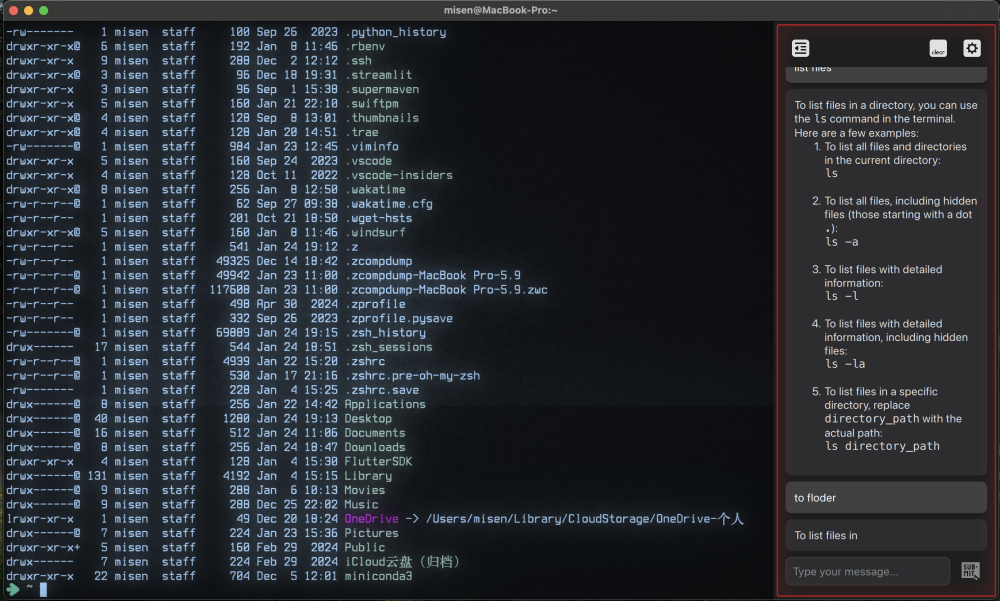
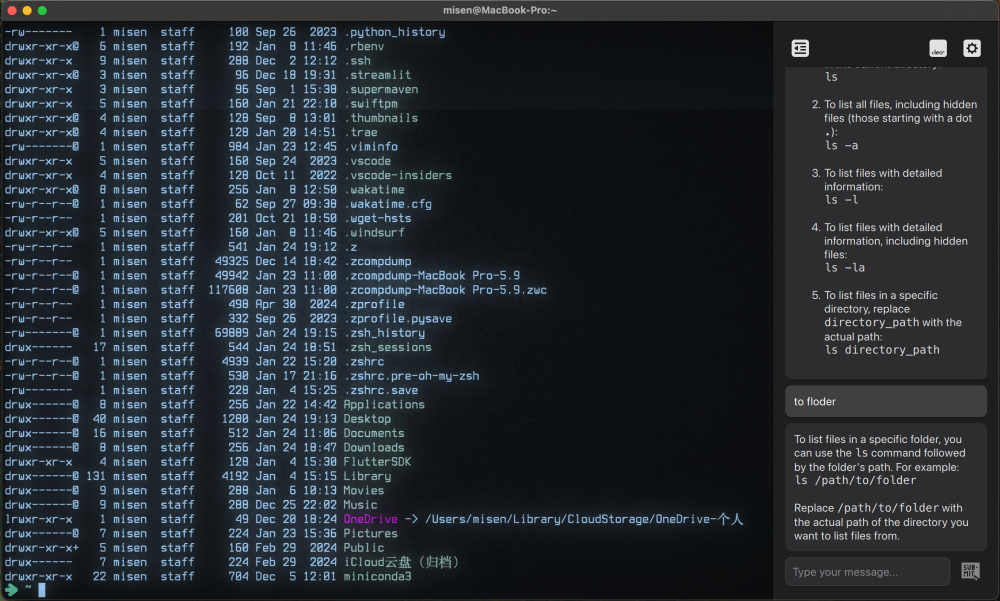
More Screenshots.

Changed region(s): [[0.0, 0.0, 0.744, 1.0], [0.775, 0.0, 1.0, 1.0], [0.434, 0.0, 0.558, 0.03]]

diff --git a/README.md b/README.md
@@ -20,6 +20,9 @@ Based on "cool-retro-term" with added AI capabilities
 ### AI Chat Panel
 ![AI Chat Panel](screenshots/ai-chat-panel.png)
 
+### Loading AI Chat Panel
+![Loading AI Chat Panel](screenshots/loading-ai-chat-panel.png)
+
 ### Settings Panel
 ![Settings Panel](screenshots/settings-panel.png)
 
